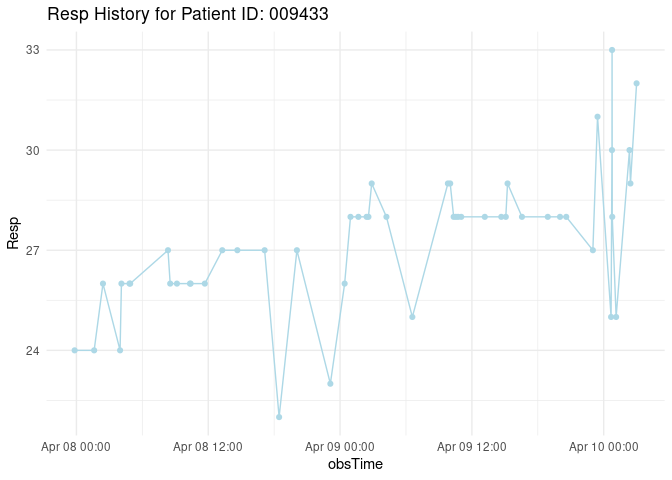
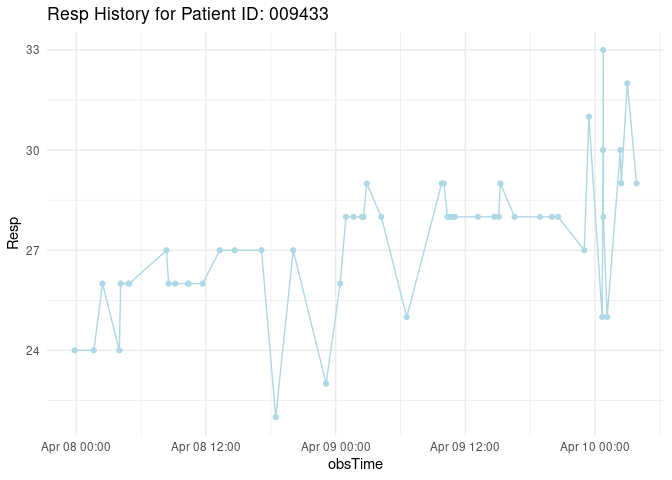
Updated report

diff --git a/sepsis_v2.md b/sepsis_v2.md
@@ -10,7 +10,7 @@ Sepsis Assignment
 
 #### The date and time of the report
 
-    Hello! The last time the report was run: 2023-04-10 03:14:29
+    Hello! The last time the report was run: 2023-04-10 04:16:40
 
 #### Recent heart rate, temperature, and respiratory rate for patients who currently have sepsis
 
@@ -32,7 +32,7 @@ table1
 |:-----------|-----------:|-----:|------------:|:--------------------|
 | 000714     |         84 |   NA |          19 | 2023-04-08 17:48:46 |
 | 001948     |         84 |   NA |          25 | 2023-04-08 22:43:12 |
-| 009433     |         94 |   NA |          32 | 2023-04-10 02:59:37 |
+| 009433     |         90 |   NA |          29 | 2023-04-10 03:51:16 |
 
 #### Plots for all patients who have sepsis that show the complete history of their heart rate, temperature, and respiratory rate during their time in the ICU.
 
@@ -162,7 +162,7 @@ mutate(prev_HR = lag(HR, order_by = obsTime),
 | 002017    |        NA |          NA |          NA |
 | 002077    |         6 |          NA |          -4 |
 | 002077    |        NA |          NA |          NA |
-| 002467    |        14 |        0.05 |           4 |
+| 002467    |        -3 |        0.35 |          -1 |
 | 002467    |        NA |          NA |          NA |
 | 002516    |        NA |          NA |          NA |
 | 002516    |        NA |          NA |          NA |
@@ -170,9 +170,9 @@ mutate(prev_HR = lag(HR, order_by = obsTime),
 | 002699    |        NA |          NA |          NA |
 | 002719    |        -9 |          NA |          -2 |
 | 002719    |        NA |          NA |          NA |
-| 003342    |        -7 |        0.10 |           3 |
+| 003342    |        -7 |        0.00 |          -1 |
 | 003342    |        NA |          NA |          NA |
-| 003364    |         0 |          NA |           1 |
+| 003364    |        -2 |          NA |          -4 |
 | 003364    |        NA |          NA |          NA |
 | 003404    |        NA |          NA |          NA |
 | 003404    |        NA |          NA |          NA |
@@ -208,7 +208,7 @@ mutate(prev_HR = lag(HR, order_by = obsTime),
 | 008574    |        NA |          NA |          NA |
 | 008614    |        -1 |          NA |           3 |
 | 008614    |        NA |          NA |          NA |
-| 008803    |        -2 |          NA |           0 |
+| 008803    |        -4 |          NA |          -1 |
 | 008803    |        NA |          NA |          NA |
 | 008882    |        -2 |          NA |           1 |
 | 008882    |        NA |          NA |          NA |
@@ -216,7 +216,7 @@ mutate(prev_HR = lag(HR, order_by = obsTime),
 | 009312    |        NA |          NA |          NA |
 | 009429    |        NA |          NA |           2 |
 | 009429    |        NA |          NA |          NA |
-| 009433    |         2 |          NA |           3 |
+| 009433    |        -4 |          NA |          -3 |
 | 009433    |        NA |          NA |          NA |
 | 009454    |        -3 |          NA |          -9 |
 | 009454    |        NA |          NA |          NA |
